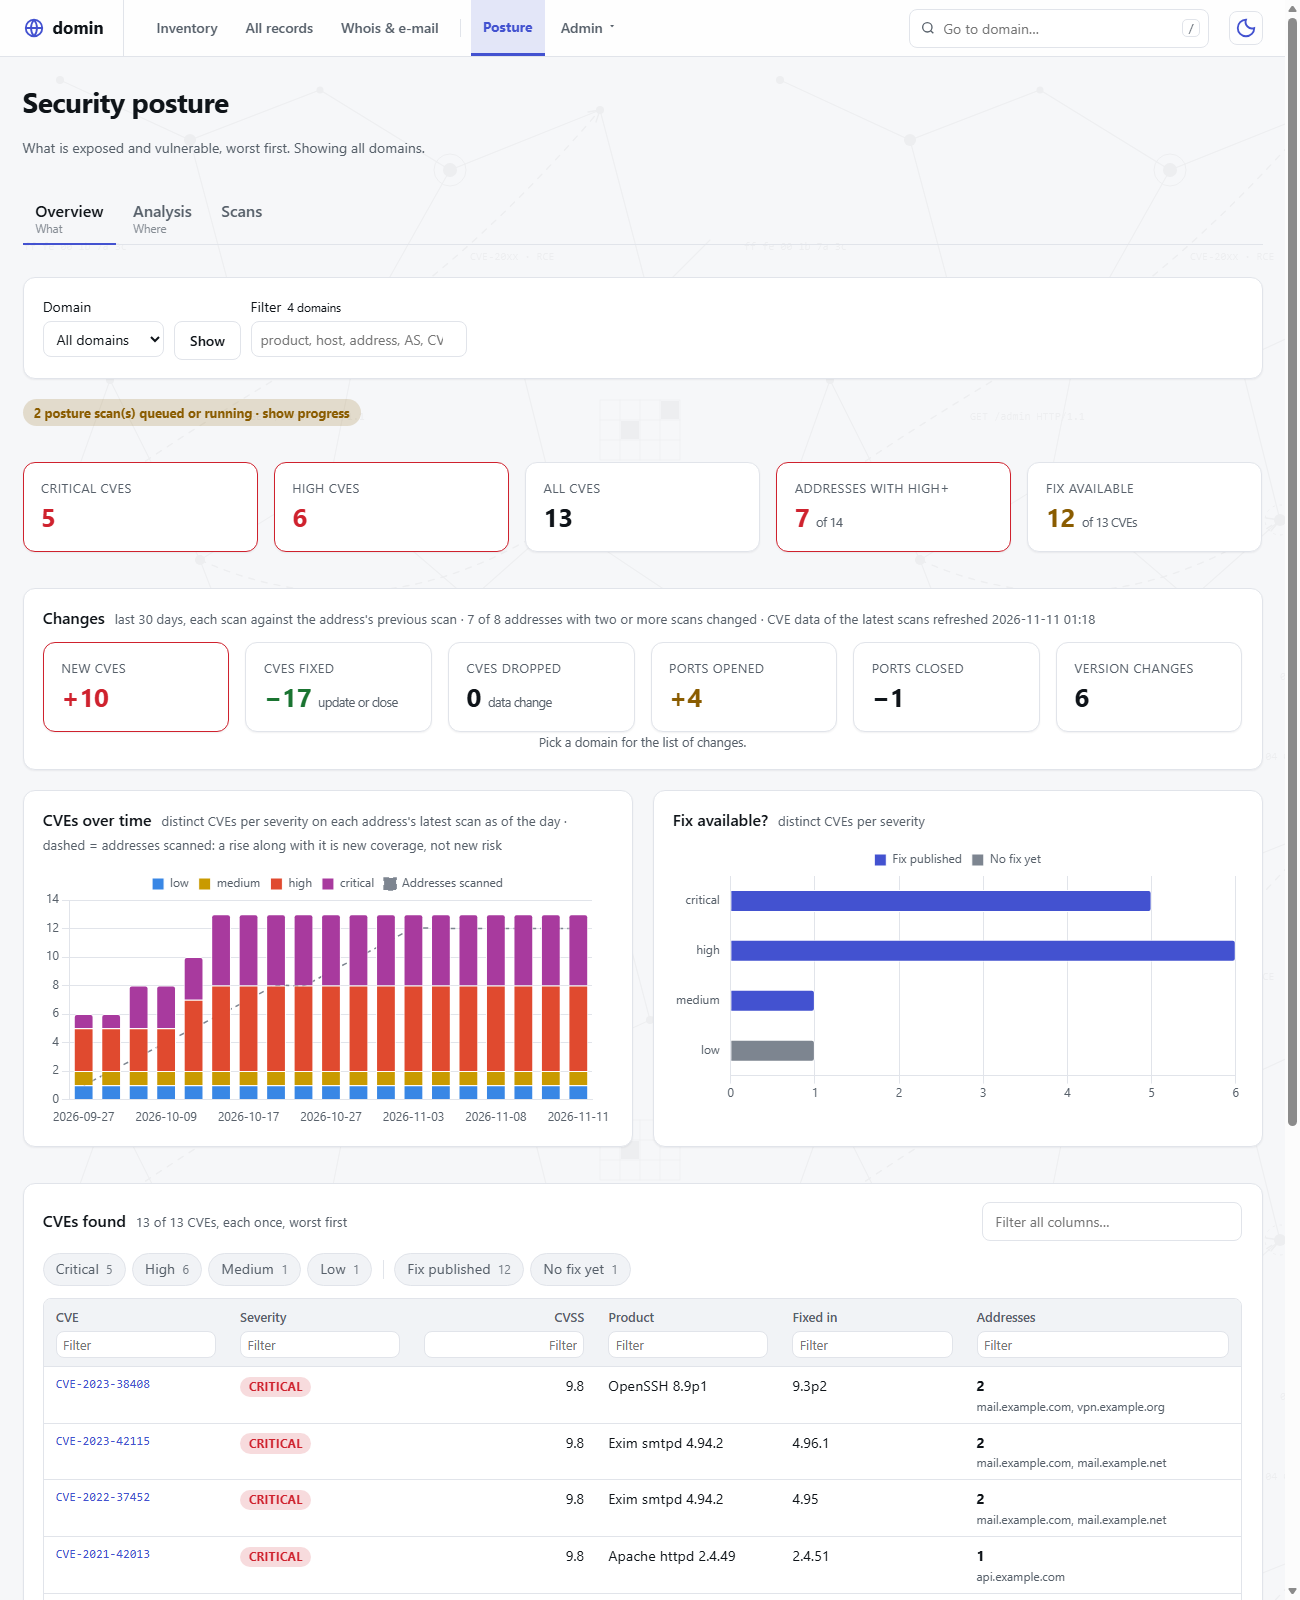
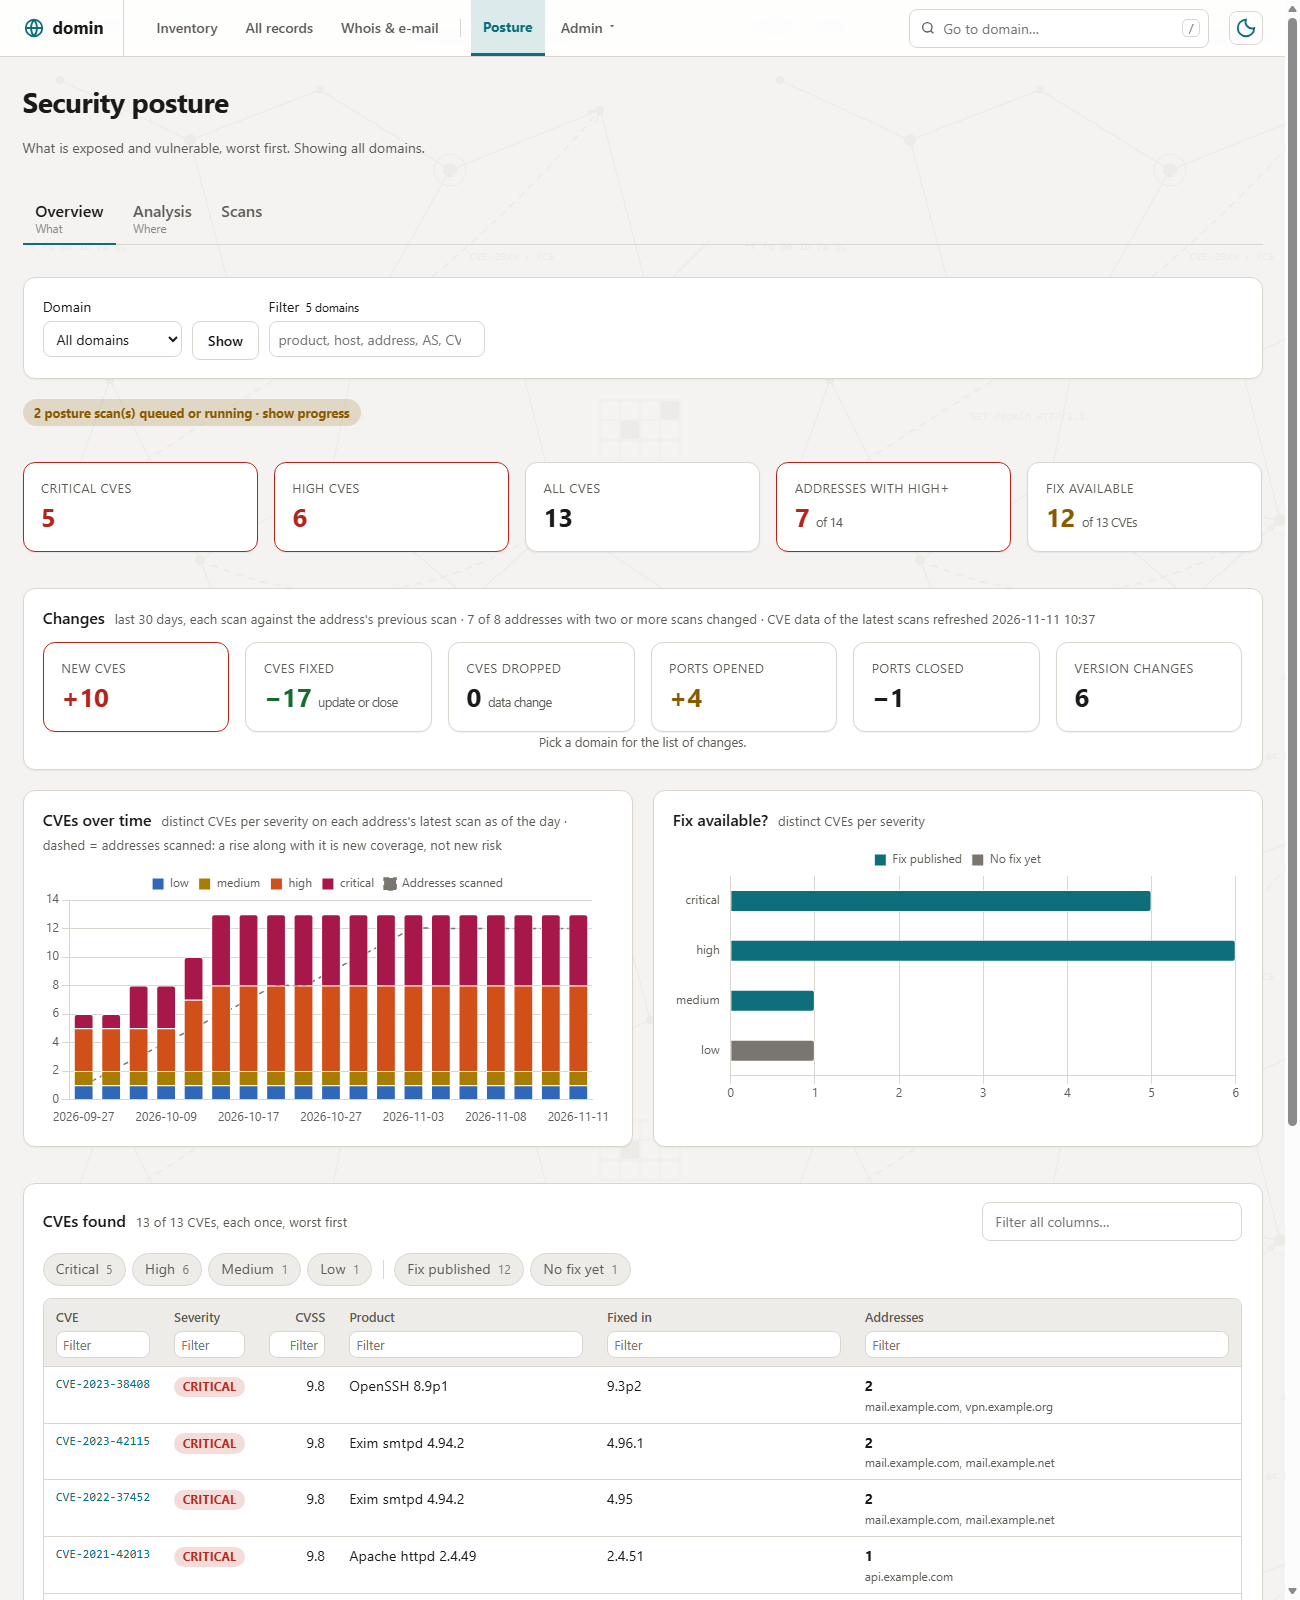
README screenshots in Graphite; neutral test addresses; drop old test result files

diff --git a/tests/test_discovery.py b/tests/test_discovery.py
@@ -53,8 +53,8 @@ def test_argv_for_port_checks_timing_rate_retries_timeout_and_dns():
     assert "--max-rate" not in a and a[a.index("--max-retries") + 1] == "0" and "10s" in a
     a = discovery.nmap_args(prof(port_mode="list", ports="22,8000-8010", timing="0"), "t")
     assert a[a.index("-p") + 1] == "22,8000-8010" and "-T0" in a
-    a = discovery.nmap_args(prof(rdns="on"), "t", dns_servers=("172.20.0.252",))
-    assert "-R" in a and "-n" not in a and a[a.index("--dns-servers") + 1] == "172.20.0.252"
+    a = discovery.nmap_args(prof(rdns="on"), "t", dns_servers=("172.20.0.53",))
+    assert "-R" in a and "-n" not in a and a[a.index("--dns-servers") + 1] == "172.20.0.53"
 
 
 def test_argv_raw_routed_and_ipv6():
@@ -147,7 +147,7 @@ def test_public_mode_sweeps_only_this_scans_global_addresses(conn):
 
 
 def test_internal_mode_sweeps_the_internal_networks_and_adds_names_under_the_domain(conn):
-    s = replace(Settings.from_env(), internal_nets=("172.20.4.16/29",), internal_dns=("172.20.0.252",))
+    s = replace(Settings.from_env(), internal_nets=("172.20.4.16/29",), internal_dns=("172.20.0.53",))
     seen, notes = [], []
     p = prof(rdns="on")
     discovery.save(conn, {**p, "name": "lan"}, "t")

diff --git a/CHANGES.md b/CHANGES.md
@@ -2,6 +2,13 @@
 
 Newest first. `deploy/install.sh` applies an update in place; the database, `/etc/domin.env` and certificates stay.
 
+## 2026-11-11: README screenshots in Graphite, neutral test data
+
+- README screenshots regenerated (mock data, Graphite colours).
+- Discovery tests use documentation-style private addresses (172.20.x.y) instead of 192.168.x.y.
+- Old pytest result files (tests/failures/*.xml, with a workstation name) removed from the tree and ignored.
+- Rollback: `git revert` this commit (images, one test file, .gitignore; nothing on the hosts).
+
 ## 2026-11-11: Two-factor QR code, styled not-found page, public sync only on request
 
 - My account > Two-factor setup: the otpauth link is also shown as a QR code, inline SVG made on the server
